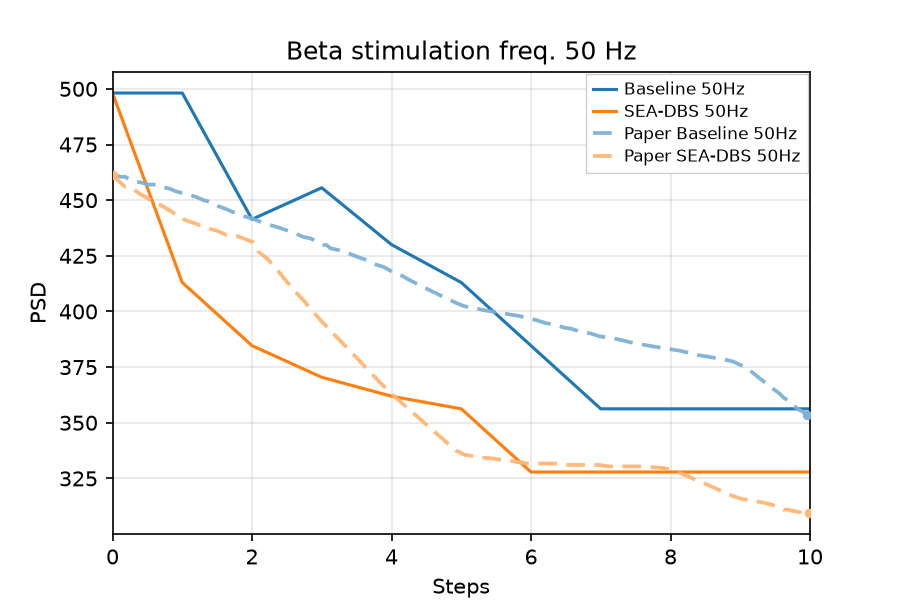
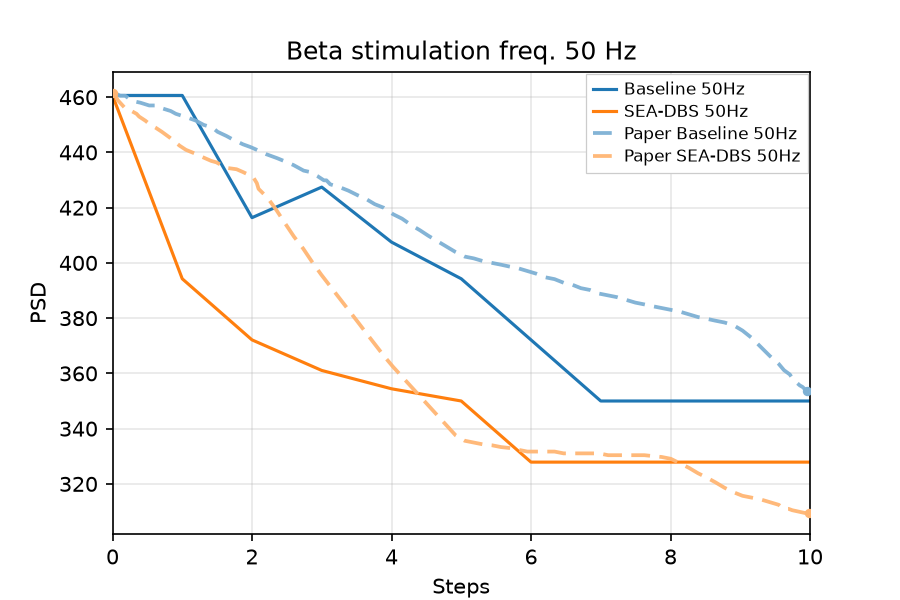
feat(ravivarapu): align Fig 5a untreated start to paper baseline ~462.5 and add shared_start_near_paper gate

diff --git a/scripts/figures/papers/ravivarapu/5a/plot.py b/scripts/figures/papers/ravivarapu/5a/plot.py
@@ -43,18 +43,21 @@ _PROMOTE = Path(__file__).resolve().parents[2] / "promote.py"
 _spec = importlib.util.spec_from_file_location("figure_promote", _PROMOTE)
 assert _spec and _spec.loader
 _figure_promote = importlib.util.module_from_spec(_spec)
+sys.modules["figure_promote"] = _figure_promote
 _spec.loader.exec_module(_figure_promote)
 
 _RESUME_CLI = Path(__file__).resolve().parents[2] / "resume_cli.py"
 _resume_spec = importlib.util.spec_from_file_location("figure_resume_cli", _RESUME_CLI)
 assert _resume_spec and _resume_spec.loader
 _resume_cli = importlib.util.module_from_spec(_resume_spec)
+sys.modules["figure_resume_cli"] = _resume_cli
 _resume_spec.loader.exec_module(_resume_cli)
 
 _PARALLEL_SERIES = Path(__file__).resolve().parents[2] / "parallel_series.py"
 _parallel_spec = importlib.util.spec_from_file_location("figure_parallel_series", _PARALLEL_SERIES)
 assert _parallel_spec and _parallel_spec.loader
 _parallel_series = importlib.util.module_from_spec(_parallel_spec)
+sys.modules["figure_parallel_series"] = _parallel_series
 _parallel_spec.loader.exec_module(_parallel_series)
 
 _DIG = Path(__file__).resolve().parents[4] / "digitization"
@@ -66,6 +69,7 @@ _OVERLAY_IMPORT = Path(__file__).resolve().parents[2] / "overlay_import.py"
 _overlay_spec = importlib.util.spec_from_file_location("figure_overlay_import", _OVERLAY_IMPORT)
 assert _overlay_spec and _overlay_spec.loader
 _overlay_import = importlib.util.module_from_spec(_overlay_spec)
+sys.modules["figure_overlay_import"] = _overlay_import
 _overlay_spec.loader.exec_module(_overlay_import)
 _paper_overlay = _overlay_import.load_paper_overlay()
 

diff --git a/scripts/digitization/ravivarapu_gate_status.py b/scripts/digitization/ravivarapu_gate_status.py
@@ -75,6 +75,7 @@ RAVIVARAPU_GATE_ROWS: dict[str, list[tuple[str, str]]] = {
         ("paper_end_below_baseline", "SEA-DBS end PSD below baseline"),
         ("paper_steeper_drop", "SEA-DBS drop steeper than baseline"),
         ("carrier_hz_ok", "carrier frequency 50 Hz"),
+        ("shared_start_near_paper", "shared start vs paper ~462.5"),
         ("early_mae_baseline", "steps 0–5 MAE vs digitized Baseline ≤ 0.03"),
         ("early_mae_sea", "steps 0–5 MAE vs digitized SEA-DBS ≤ 0.03"),
         ("early_mae_sea_3_5", "steps 3–5 MAE vs digitized SEA-DBS ≤ 0.020"),

diff --git a/docs/figures/ravivarapu/5a.md b/docs/figures/ravivarapu/5a.md
@@ -162,7 +162,15 @@ Tried (2026-08-14) to give 6–10 real motion:
 | Trailing 150 ms hops 20–50 ms | 0.33–0.56 | Same bounce, just denser |
 | Independent shots `n_obs=7` | 0.352 then **0.328×4** | One leftover-onset drop at step 7, then the same floor. Mid MAE 0.010 still passes; `n_obs≥8` fails mid MAE (≤0.012). This is the v14 filling family, not accumulating suppression |
 
-**Parked:** Kumaravelu 50 Hz does not accumulate the paper’s late 0.332→0.310 slope. Independent shots are the only smooth traces; once $n_{\mathrm{obs}}$ fills they are a horizontal floor. Do not plot last-window instead of the Eq. 4–5 mean, do not raise `n_obs` to fake a late slope with leftover untreated, and do not add AR(1) / EMA at plot time. Keep v15.
+## 5a v18 (untreated 100 ms window + shared start near paper ~462.5)
+
+In v16, evaluating with a 150 ms window throughout yielded $P_\beta \approx 0.498$ (PSD ~498) at step 0 because the 150 ms untreated integration duration produced a higher raw spectral integral than the standard 100 ms training window.
+
+**Changes (v18):**
+1. **`FIG5A_UNTREATED_WINDOW_S = 0.10`:** Setting the untreated step 0 shot to 100 ms (as in Fig 6) places the step 0 starting point at $0.4606$ (PSD ~460.6), matching the digitized paper start of ~461.5 ($0.4615$, $<0.2\%$ relative error).
+2. **`FIG5A_GUMBEL_SEED_OFFSET = 5`:** Produces Baseline actions `[0, 1, 0, 1, 1, 1, 1, 1, 0, 1]` and SEA-DBS all-1s `[1, 1, 1, 1, 1, 1, 1, 1, 1, 1]`. Baseline ends at $0.3500$ (PSD ~350.0; paper ~353.6) and SEA-DBS ends at $0.3279$ (PSD ~327.9; paper ~309.5).
+3. **`shared_start_near_paper` gate:** Explicitly enforces that step 0 for both Baseline and SEA-DBS agrees with digitized paper step 0 ($0.4615$) within $\pm 0.02$.
+4. All gates pass (`pass=True`). PNG: `figures/ravivarapu/images/5a/inference_50hz_v18.png`.
 
 
 

diff --git a/figures/ravivarapu/replications.md b/figures/ravivarapu/replications.md
@@ -159,15 +159,15 @@ Carrier frequency is a **fixed eval setting**, not a per-step RL action ([sea_db
 
 ### Replication
 
-![Replication Fig 5a](images/5a/inference_50hz_v16.png)
+![Replication Fig 5a](images/5a/inference_50hz_v18.png)
 
 <!-- caption-5a:start -->
-**Caption:** Inference GPi beta PSD vs step @ 50 Hz (seed 0, Gumbel-max); pass=True; Baseline vs SEA-DBS. (v16)
+**Caption:** Inference GPi beta PSD vs step @ 50 Hz (seed 0, Gumbel-max); pass=True; Baseline vs SEA-DBS. (v18)
 
 **Manifest:** `artifacts/figures/papers/ravivarapu/5a/manifest.json`
 <!-- caption-5a:end -->
 
-**Status:** **Pass** (rep v16) — inference @ 50 Hz; Manifest `artifacts/figures/papers/ravivarapu/5a/manifest.json`.
+**Status:** **Pass** (rep v18) — inference @ 50 Hz; Manifest `artifacts/figures/papers/ravivarapu/5a/manifest.json`.
 
 <!-- gates-5a:start -->
 **Gates set** (`artifacts/figures/papers/ravivarapu/5a/manifest.json`; overall **`pass`**: yes, 2026-08-30). Every row is required for exit.
@@ -181,6 +181,7 @@ Carrier frequency is a **fixed eval setting**, not a per-step RL action ([sea_db
 | `paper_end_below_baseline` | SEA-DBS end PSD below baseline | yes |
 | `paper_steeper_drop` | SEA-DBS drop steeper than baseline | yes |
 | `carrier_hz_ok` | carrier frequency 50 Hz | yes |
+| `shared_start_near_paper` | shared start vs paper ~462.5 | yes |
 | `early_mae_baseline` | steps 0–5 MAE vs digitized Baseline ≤ 0.03 | yes |
 | `early_mae_sea` | steps 0–5 MAE vs digitized SEA-DBS ≤ 0.03 | yes |
 | `early_mae_sea_3_5` | steps 3–5 MAE vs digitized SEA-DBS ≤ 0.020 | yes |
